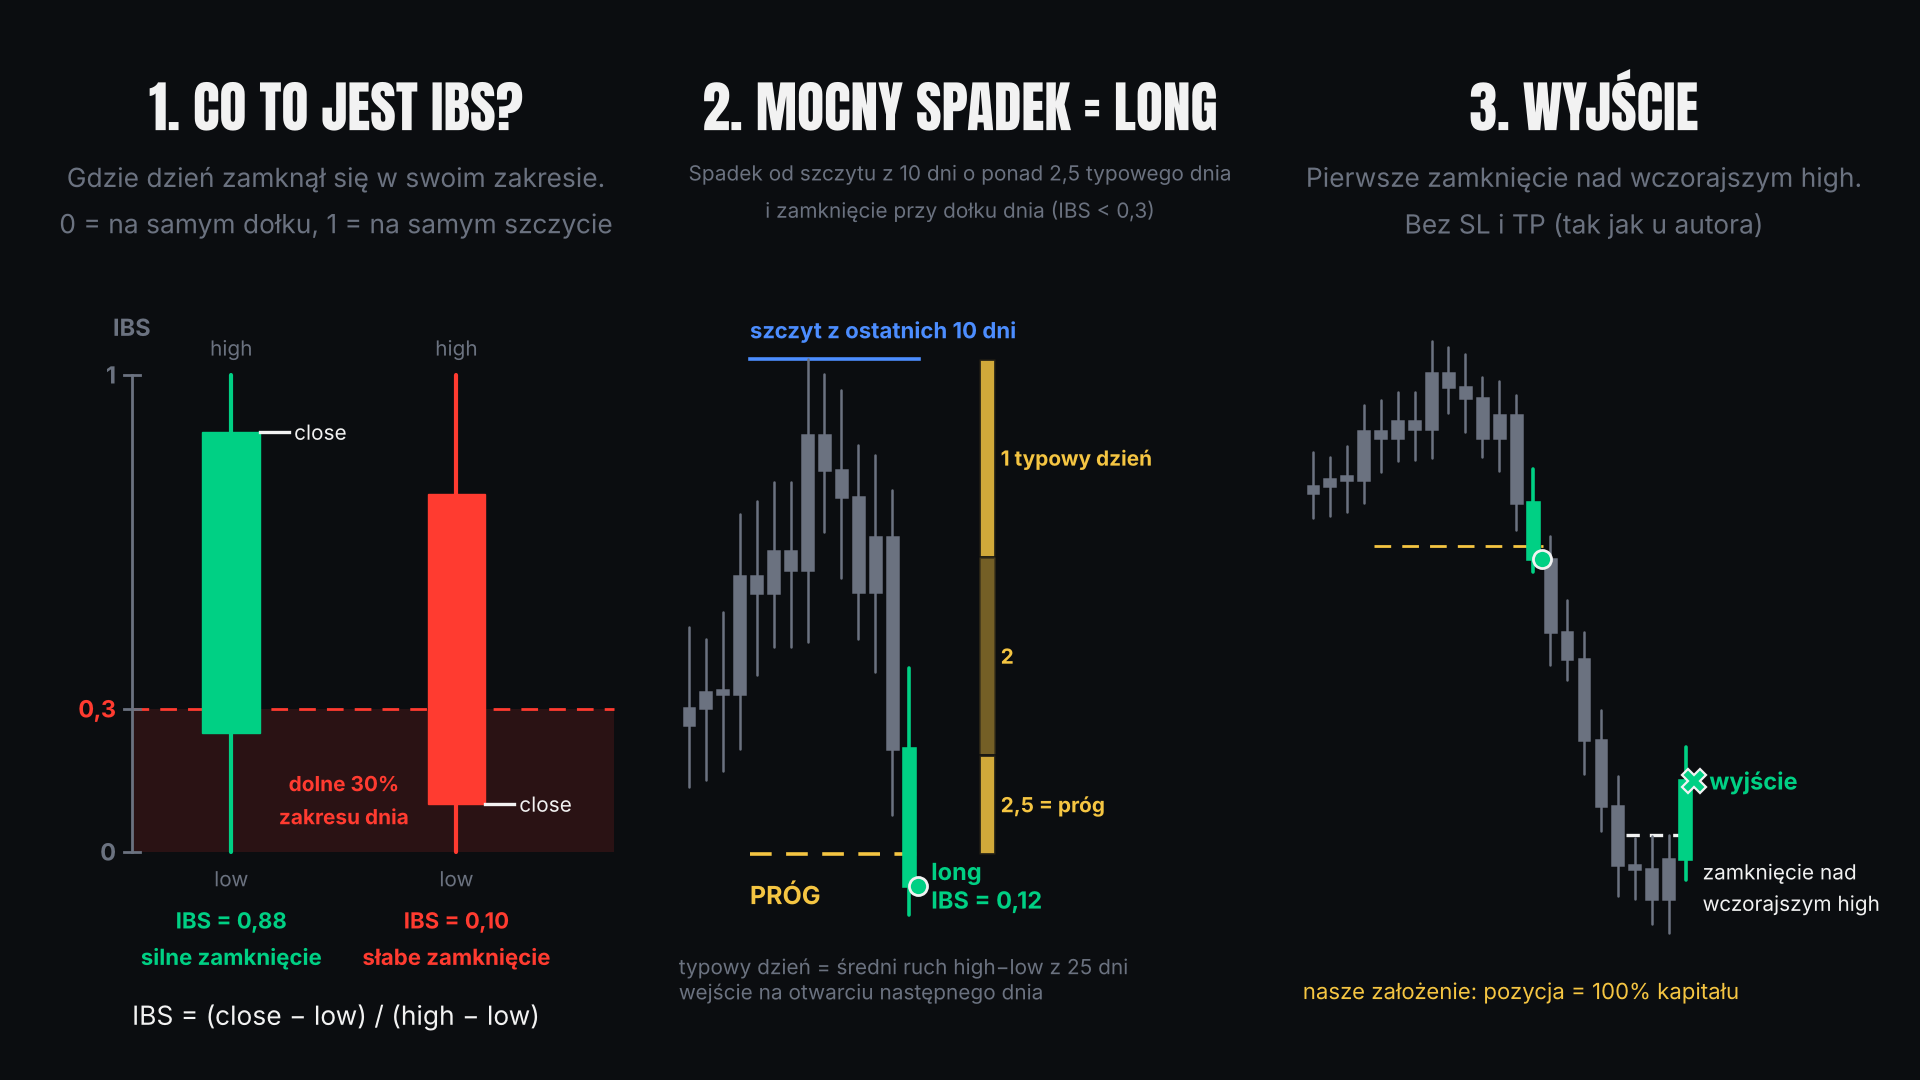
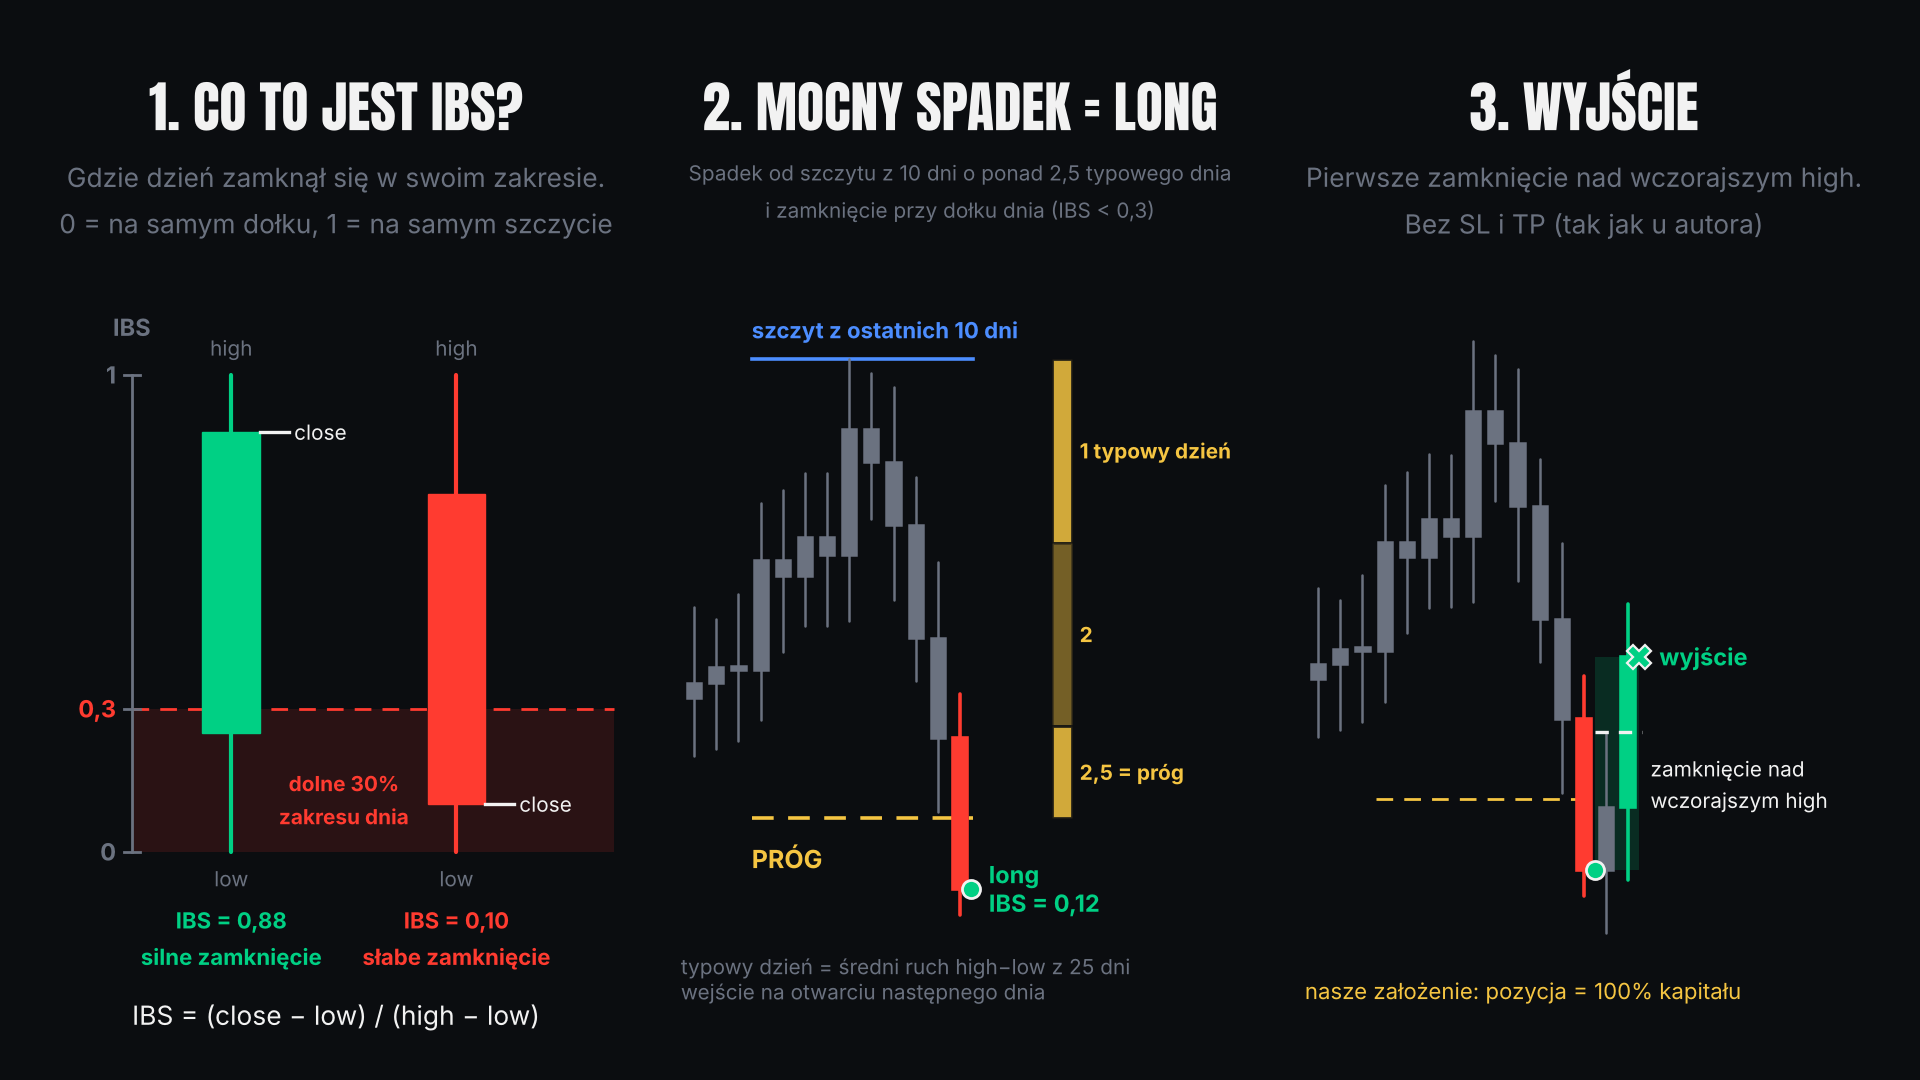
Plansza IBS: czytelny long — wejście na dołku spadku, wyjście wyżej z zyskiem
Claude-Session: https://claude.ai/code/session_01DmSsWDEezN9ypEAJZS51Lm

diff --git a/narzedzia/plansze_objasniajace/ibs_plansza.py b/narzedzia/plansze_objasniajace/ibs_plansza.py
@@ -64,8 +64,10 @@ def data():
     liczone regułami strategii (próg z 10/25 świec, IBS < 0,3, zamknięcie nad wczorajszym high)."""
     H, n = 25, 30
     N = H + n
-    cl = path([(0, 100), (H + 8, 108), (H + 11, 107), (H + 18, 99.5), (H + 20, 98.7),
-               (H + 24, 103), (H + 29, 104)], N, 0.45)
+    cl = path([(0, 100), (H + 8, 108)], H + 9, 0.45)
+    # spadek kilka dni z rzędu, potem odbicie (wartości zamknięć ręcznie, żeby przykład był czytelny)
+    cl += [107.4, 106.5, 105.7, 104.5, 105.0, 106.2, 106.8, 107.1, 106.9, 107.4]
+    cl += [107.6] * (N - len(cl))
     B = bars_from(cl, wick=0.55)
     hi = [b[1] for b in B]
     lo = [b[2] for b in B]
@@ -98,7 +100,7 @@ def main():
     s = Seg(fig, 1, "2. MOCNY SPADEK = LONG",
             "Spadek od szczytu z 10 dni o ponad 2,5 typowego dnia\n"
             "i zamknięcie przy dołku dnia (IBS < 0,3)", n, (lo2, hi2), right=9)
-    s.candles(B, SIG + 1, {SIG: GREEN})
+    s.candles(B, SIG + 1, {SIG: RED})
     x1 = SIG - 9
     s.level(hh[SIG], x1 - 0.4, SIG + 0.6, BLUE, ls="-", lw=2.6)
     s.ax.text(x1 - 0.4, hh[SIG] + s.dy * 0.6, "szczyt z ostatnich 10 dni", color=BLUE, fontsize=16,
@@ -119,11 +121,14 @@ def main():
 
     # 3. wyjście
     s = Seg(fig, 2, "3. WYJŚCIE", "Pierwsze zamknięcie nad wczorajszym high.\nBez SL i TP (tak jak u autora)", n, (lo, hi), right=9)
-    s.candles(B, EX + 1, {SIG: GREEN, EX: GREEN})
+    s.candles(B, EX + 1, {SIG: RED, EX: GREEN})
     s.level(band[SIG], x1 - 0.4, SIG + 0.6, YELLOW, lw=2)
     s.ax.plot([SIG + 0.5], [B[SIG][3]], "o", ms=13, color=GREEN, mec=FG, mew=2, zorder=8)
     yh = B[EX - 1][1]
-    s.level(yh, EX - 3.5, EX + 0.6, FG, ls=(0, (4, 3)), lw=2.4)
+    s.ax.plot([EX - 1.5, EX + 0.6], [yh, yh], color=FG, lw=2.4, ls=(0, (4, 3)), zorder=6)
+    # long: zysk = od zamknięcia dnia wejścia do zamknięcia dnia wyjścia
+    s.ax.add_patch(Rectangle((SIG + 0.5, B[SIG][3]), EX - SIG, B[EX][3] - B[SIG][3], facecolor=GREEN,
+                             alpha=0.16, lw=0, zorder=1))
     s.ax.text(EX + 1.0, yh - s.dy * 0.9, "zamknięcie nad\nwczorajszym high", color=FG, fontsize=15, va="top",
               linespacing=1.25, zorder=6)
     s.exit(EX + 0.5, B[EX][3], GREEN, "wyjście")
